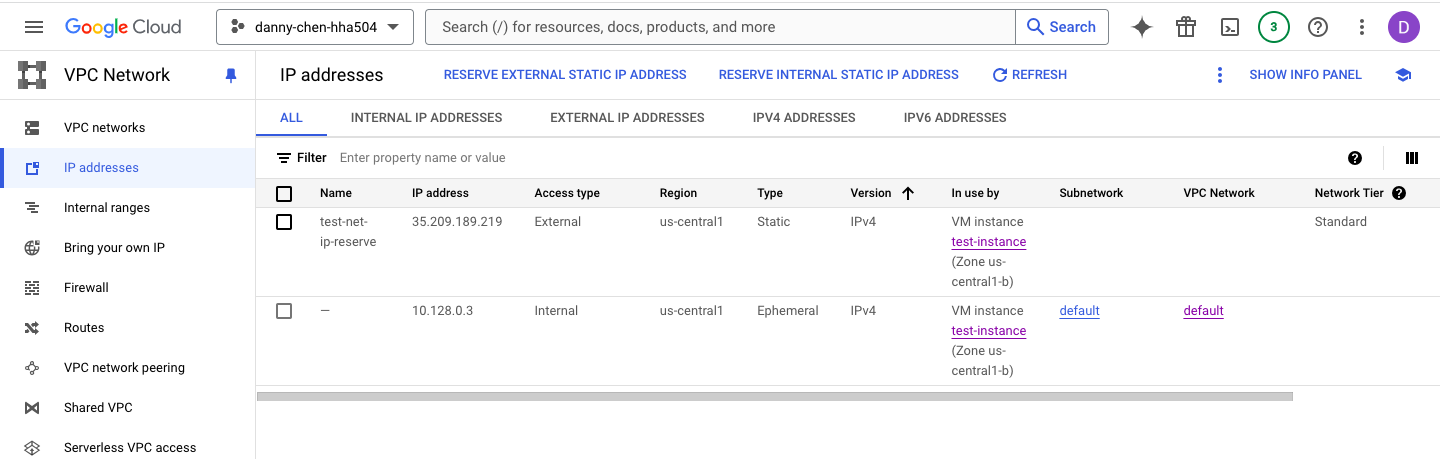
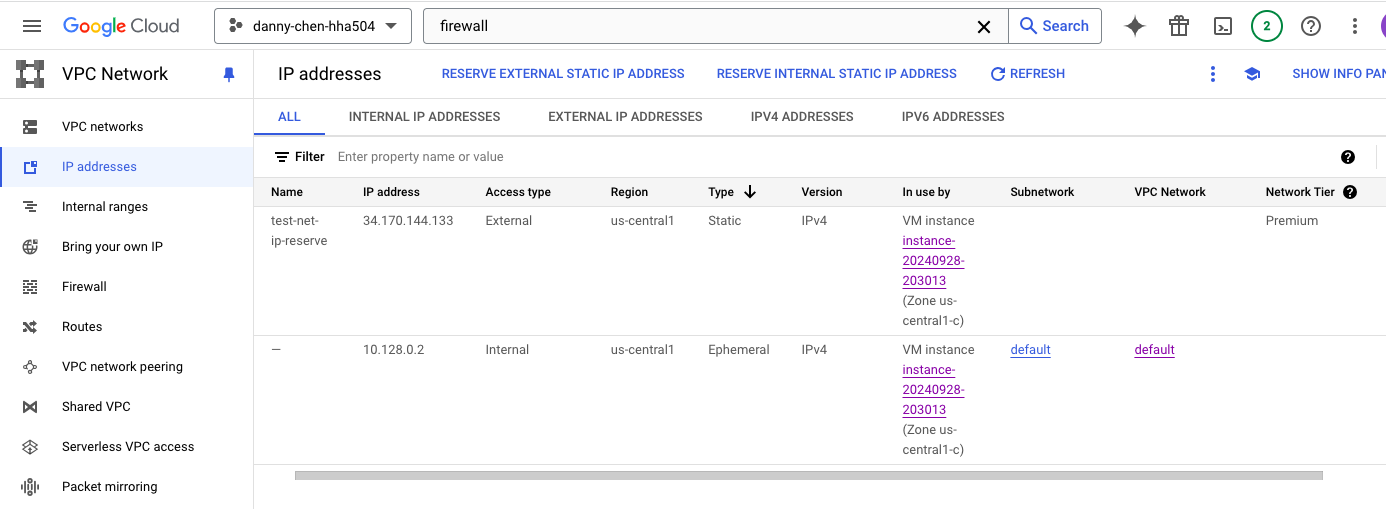
GCP section doone

diff --git a/README.md b/README.md
@@ -1,8 +1,8 @@
 # HHA504 Networking Assignment
-NOTE: Per the updated instruction on 9/16/24's lecture, Azure was left alone and only GCP was completed.
 
-## GCP - Screenshots of VPC/VNet creation and IP Reservation
-### Network Creation
+## GCP
+### Screenshots of VPC/VNet creation and IP Reservation
+#### Network Creation
 1. Created VPC network name
 ![Created VPC network name](gcp/network_creation/network_creation_1.png)
 2. Created VPC network subnet
@@ -10,40 +10,50 @@ NOTE: Per the updated instruction on 9/16/24's lecture, Azure was left alone and
 3. VPC network was successfully created
 ![VPC network creation success](gcp/network_creation/network_creation_3.png)
 
-### IP Reservation
-1. Turned on HTTP and HTTPS traffic while creating VM
-![Turn on HTTP and HTTPS traffic while creating virtual machine](gcp/ip_reservation/make_vm_1.png)
-2. VM was successfully made
-![Virtual machine successfully made](gcp/ip_reservation/make_vm_2.png)
-3. Clicked "Reserve External Static IP Address" on VPC network page
-![Clicked "Reserve External IP Address" link on VPC network page](gcp/ip_reservation/reservation_1.png)
-4. Named the static address, selected the region, and attached it to my VM instance
-![Created static address name, selected the region, and where to attach it](gcp/ip_reservation/reservation_2.png)
-5. Reserving a static IP address was successfully done
-![Static reserve IP address successfully made](gcp/ip_reservation/reservation_3.png)
+#### Assign a Dedicated or Use Dynamic IP
+1. In VM creation, changed operating system to Ubuntu
+![Changed operating system to Ubuntu](gcp/ip_reservation/make_vm_1.png)
+2. Turned on HTTP and HTTPS traffic
+![Turn on HTTP and HTTPS traffic while creating virtual machine](gcp/ip_reservation/make_vm_2.png)
+3. VM was successfully made
+4. For this assignment, the dynamic public IP assigned by Azure was used
+![Virtual machine successfully made](gcp/ip_reservation/public_ip.png)
 
-## GCP - Attempts and Screenshots to Map IP Address to Domain
-I was ultimately unable to map the IP address from GCP to a domain. Below are what I tried:
+#### Configure Firewall Settings
+1. Typed "firewall" in GCP search bar and clicked "Firewall VPC Network"
+![Clicked "firewall" in results of search bar](gcp/firewall/go_to_firewall.png)
+2. Clicked "Create Firewall Rule" and configured it with the following:
+    * added a name
+    * "Targets" header --> All instances in the network 
+    * "Source IPv4 ranges" header --> 0.0.0.0/0
+    * Checked the "TCP" box and entered the port number that the Professor's Flask app from his hha-504-flask-networking repo is using, or 5007
+        * This repo will be cloned later on
+![configured firewall rule](gcp/firewall/rule_config.png)
+3. Clicked "Create" and the rule was successfully made
+![clicked "create" to create firewall rule](gcp/firewall/rule_created.png)
 
-1. Followed along with a YouTube tutorial to try mapping a reserved IP address to a domain name
-    * Video Name: [Setting Up Custom Domain With Google Cloud Compute Engine Instance](https://www.youtube.com/watch?v=eXtqqofrhOo)
-2. Enabled the Cloud DNS API
-3. Created a zone titled "test-net-zone" with a DNS name of my GitHub Pages site link
-![Created zone in Cloud DNS](gcp/dns/zone_creation.png)
-4. Created a record set by pasting the external IP of my VM instance (titled "test-instance) to the "IPv4 Address" box, then clicking "Create"
-5. After creation of record set, I clicked "Registrar Setup" at the top right of the page
-6. A message then appeared, which told me...
-    * the zone will not be usable until I register the related domain and configure the records with my registrar
-    * four name servers:
-        * ns-cloud-a1.googledomains.com
-        * ns-cloud-a2.googledomains.com
-        * ns-cloud-a3.googledomains.com
-        * ns-cloud-a4.googledomains.com
-7. The user in the YouTube tutorial pasted each of the above items into the name server section of his own domain. GitHub Pages did not have that section, so I attempted to save each of the above name servers to its "Custom domain" section. However, trying to save each one led to one of two types of errors:
-    * Custom domain name is already taken
-![Custom domain name is already taken](gcp/dns/error_1.png)
-    * DNS check unsuccessful
-![DNS check unsuccessful](gcp/dns/error_2.png)
-8. I did some further digging to see if it was truly possible to link a reserved IP address to a GitHub Pages site. Based on what I found from a few sources, it does not seem possible to link the IP address directly to the GitHub Pages site without giving the site a custom domain name first. 
-9. I researched for websites that offered free domain names that students could use for a short, temporary period of time. However, I was unable to find any.
-10. Obtaining a domain name seems to be mandatory to complete this part of the assignment. Alongside the tutorial I followed, other tutorials I came across also involved the users using their own domain name. Since it requires purchasing one, I was unsure what to do next from here.
+#### Steps and Screenshots to Map IP Address to Domain
+1. Created a record in Namecheap and...
+    * added a host name
+    * pasted in the public IP from the GCP VM instance
+    * set the TTL to lowest as possible (1 min in this case)
+    * saved all changes
+![record added in Namecheap's domain setting](gcp/dns/namecheap.png)
+2. Clicked "SSH" of the VM instance to open up a shell
+![ran SSH of VM instance](gcp/dns/ran_ssh.png)
+3. In the shell, the following commands (cmds) were ran in the order below:
+    * sudo apt-get update (NOTE: always run first when opening SSH to avoid potential errors later on)
+    * git clone https://github.com/hantswilliams/hha-504-flask-networking.git
+        * This repo contains the HTML that will appear after mapping is completed
+    * cd hha-504-flask-networking
+    * pip3 install -r requirements.txt
+    * sudo ufw allow 5007
+    * sudo ufw allow 80
+    * sudo ufw allow 443
+    * python3 app.py
+4. After running the last cmd, I typed 34.28.213.127:5007 into the search bar of one tab and python.dche.me:5007 of another tab. Both successsfully displayed the HTML from the cloned repo.
+    * NOTE
+        * 34.28.213.127:5007 follows format of (ip address):(port number)
+![HTML successfully displayed after entering 34.28.213.127:5007 to search bar](gcp/dns/enter_ip_n_port.png)
+        * python.dche.me:5007 follows (host name).(domain name):(port number)
+![HTML successfully displayed after entering python.dche.me:5007 to search bar](gcp/dns/enter_domain_n_port.png)
